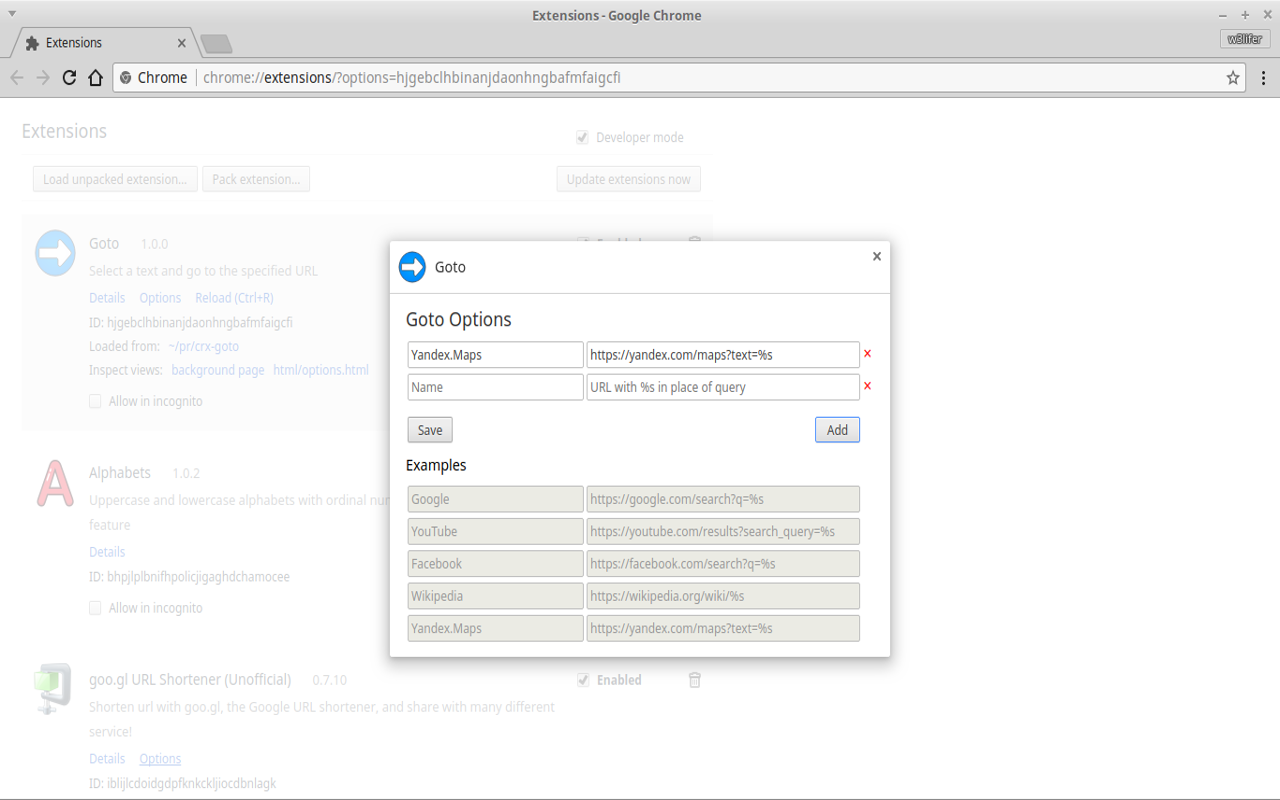
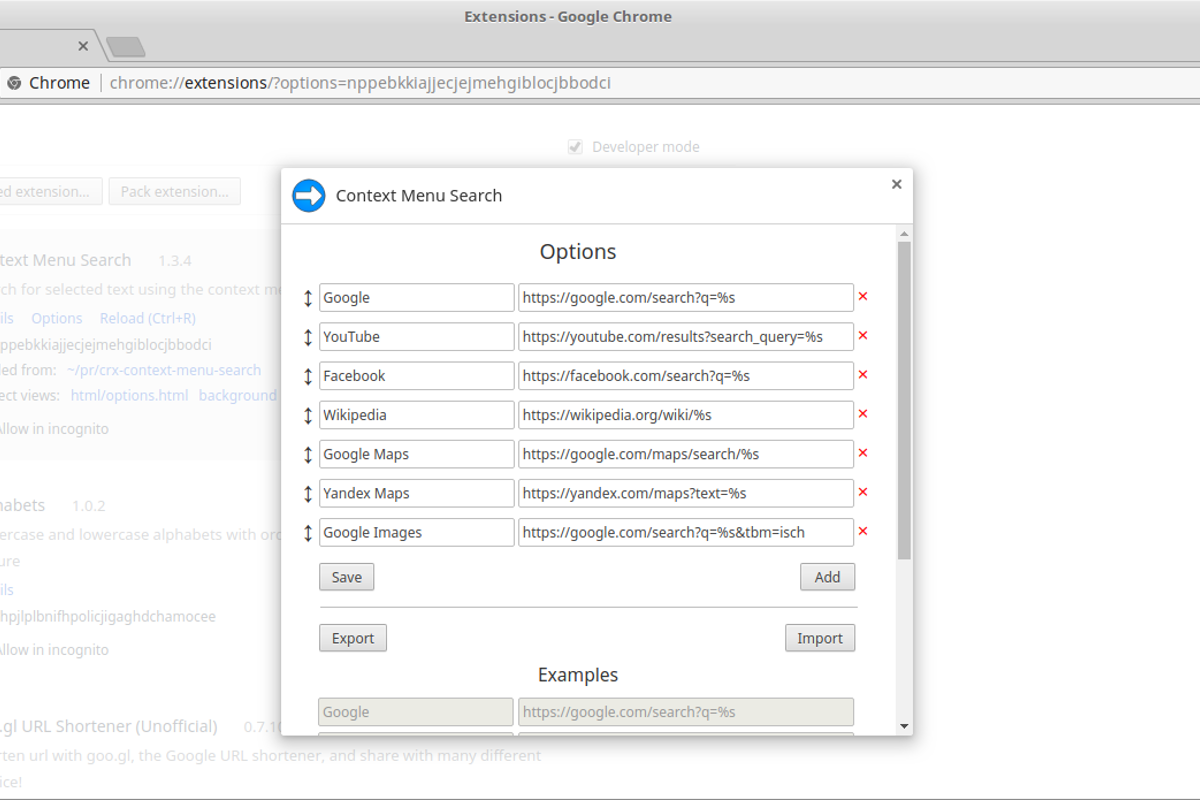
1.4.0 - "go to" -> "context menu search"

diff --git a/js/options.js b/js/options.js
@@ -1,6 +1,6 @@
 ;'use strict';
 
-/* global chrome */
+/* global app, chrome */
 
 /**
  * @property chrome.contextMenus
@@ -22,6 +22,7 @@ window.addEventListener('DOMContentLoaded', function () {
   var addButton = document.getElementById('add-button');
   var saveButton = document.getElementById('save-button');
   var savedNotification = document.getElementById('saved-notification');
+  var listOfExamples = document.getElementById('list-of-examples');
 
   // Initialization
 
@@ -59,6 +60,30 @@ window.addEventListener('DOMContentLoaded', function () {
   }
 
   Sortable.create(listOfFieldsets);
+
+  // Initialization - Examples
+
+  (function () {
+    for (var index in app.initialStorage.fieldsets) {
+
+      var nameInput = document.createElement('input');
+      nameInput.disabled = true;
+      nameInput.className = 'name';
+      nameInput.value = app.initialStorage.fieldsets[index].name;
+
+      var urlInput = document.createElement('input');
+      urlInput.disabled = true;
+      urlInput.className = 'url';
+      urlInput.value = app.initialStorage.fieldsets[index].url;
+
+      var li = document.createElement('li');
+      li.appendChild(nameInput);
+      li.appendChild(urlInput);
+
+      listOfExamples.appendChild(li);
+
+    }
+  })();
 
   // Events
 
@@ -104,7 +129,7 @@ window.addEventListener('DOMContentLoaded', function () {
         savedNotification.classList.add('hidden');
       }, 1000);
       chrome.contextMenus.removeAll(function () {
-        setContextMenuItems(data);
+        app.methods.setContextMenuItems(data);
       });
     });
 
@@ -145,7 +170,7 @@ window.addEventListener('DOMContentLoaded', function () {
         var url = 'data:application/json;base64,' + btoa(result);
         chrome.downloads.download({
           url: url,
-          filename: 'chrome-extension__go-to__settings.json'
+          filename: 'context-menu-search.json'
         });
       });
     });

diff --git a/html/options.html b/html/options.html
@@ -33,28 +33,7 @@
         <button id="import-button">Import</button>
     </div>
     <h2>Examples</h2>
-    <ul id="examples">
-        <li>
-            <input value="Google" disabled class="name">
-            <input value="https://google.com/search?q=%s" disabled class="url">
-        </li>
-        <li>
-            <input value="YouTube" disabled class="name">
-            <input value="https://youtube.com/results?search_query=%s" disabled class="url">
-        </li>
-        <li>
-            <input value="Facebook" disabled class="name">
-            <input value="https://facebook.com/search?q=%s" disabled class="url">
-        </li>
-        <li>
-            <input value="Wikipedia" disabled class="name">
-            <input value="https://wikipedia.org/wiki/%s" disabled class="url">
-        </li>
-        <li>
-            <input value="Yandex.Maps" disabled class="name">
-            <input value="https://yandex.com/maps?text=%s" disabled class="url">
-        </li>
-    </ul>
+    <ul id="list-of-examples"></ul>
     <div id="close-button-wrapper">
         <button>Close</button>
     </div>

diff --git a/js/common.js b/js/common.js
@@ -1,10 +1,39 @@
 ;'use strict';
 
+var app = {};
+
+app.methods = {};
+
+app.initialStorage = {
+  fieldsets: [{
+    name: 'Google',
+    url: 'https://google.com/search?q=%s'
+  },{
+    name: 'YouTube',
+    url: 'https://youtube.com/results?search_query=%s'
+  },{
+    name: 'Facebook',
+    url: 'https://facebook.com/search?q=%s'
+  },{
+    name: 'Wikipedia',
+    url: 'https://wikipedia.org/wiki/%s'
+  },{
+    name: 'Google Maps',
+    url: 'https://google.com/maps/search/%s'
+  },{
+    name: 'Yandex Maps',
+    url: 'https://yandex.com/maps?text=%s'
+  },{
+    name: 'Google Images',
+    url: 'https://google.com/search?q=%s&tbm=isch'
+  }]
+};
+
 /**
  * @param {Object} storage
  * @param {Array}  storage.fieldsets
  */
-function setContextMenuItems(storage) {
+app.methods.setContextMenuItems = function (storage) {
   for (var index in storage.fieldsets) {
     if (
       storage.fieldsets.hasOwnProperty(index) &&
@@ -18,4 +47,4 @@ function setContextMenuItems(storage) {
       });
     }
   }
-}
+};

diff --git a/js/event-page.js b/js/event-page.js
@@ -1,6 +1,6 @@
 ;'use strict';
 
-/* global chrome */
+/* global app, chrome */
 
 /**
  * @property chrome.contextMenus
@@ -14,17 +14,11 @@
 chrome.runtime.onInstalled.addListener(function() {
   chrome.storage.sync.get(null, function (storage) {
     if (!storage.fieldsets) {
-      var initialStorage = {
-        fieldsets: [{
-          name: 'YouTube',
-          url: 'https://youtube.com/results?search_query=%s'
-        }]
-      };
-      chrome.storage.sync.set(initialStorage, function () {
-        setContextMenuItems(initialStorage);
+      chrome.storage.sync.set(app.initialStorage, function () {
+        app.methods.setContextMenuItems(app.initialStorage);
       });
     } else {
-      setContextMenuItems(storage);
+      app.methods.setContextMenuItems(storage);
     }
   });
 });

diff --git a/css/options.css b/css/options.css
@@ -29,12 +29,16 @@ ul {
   padding-left: 0;
 }
 
-ul#examples {
+ul#list-of-examples {
   margin-left: 15px;
 }
 
-ul#examples li {
+ul#list-of-examples li {
   margin: 5px 0;
+}
+
+ul#list-of-examples .name {
+  margin-right: 4px;
 }
 
 .up-down-arrow {

diff --git a/README.md b/README.md
@@ -1,9 +1,9 @@
-# Go to
+# Context Menu Search
 
-- Chrome Web Store: https://chrome.google.com/webstore/detail/go-to/idpcgabojogahgmhdgnjkmdliaeeofka
+- Chrome Web Store: https://chrome.google.com/webstore/detail/idpcgabojogahgmhdgnjkmdliaeeofka
 
 ![Options](img/screenshots/original/options.png)
 
-![Example](img/screenshots/original/example.png)
+![Example](img/screenshots/original/context-menu.png)
 
 - Icons: https://iconfinder.com/icons/173182/arrow_circle_right_icon
